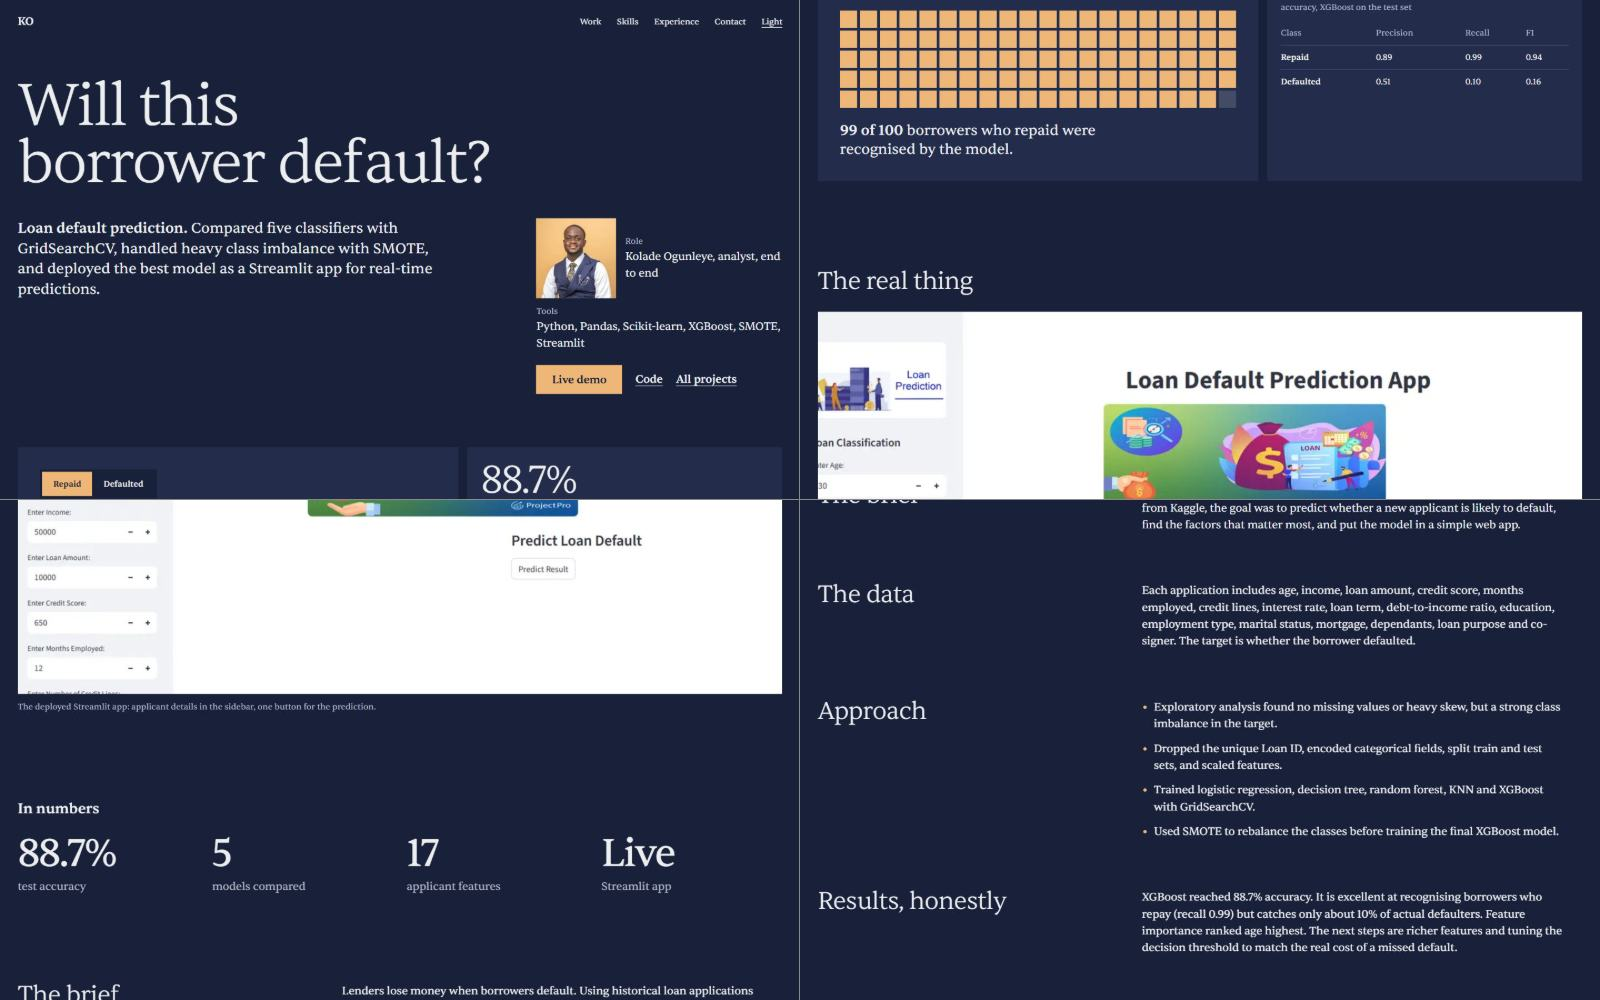
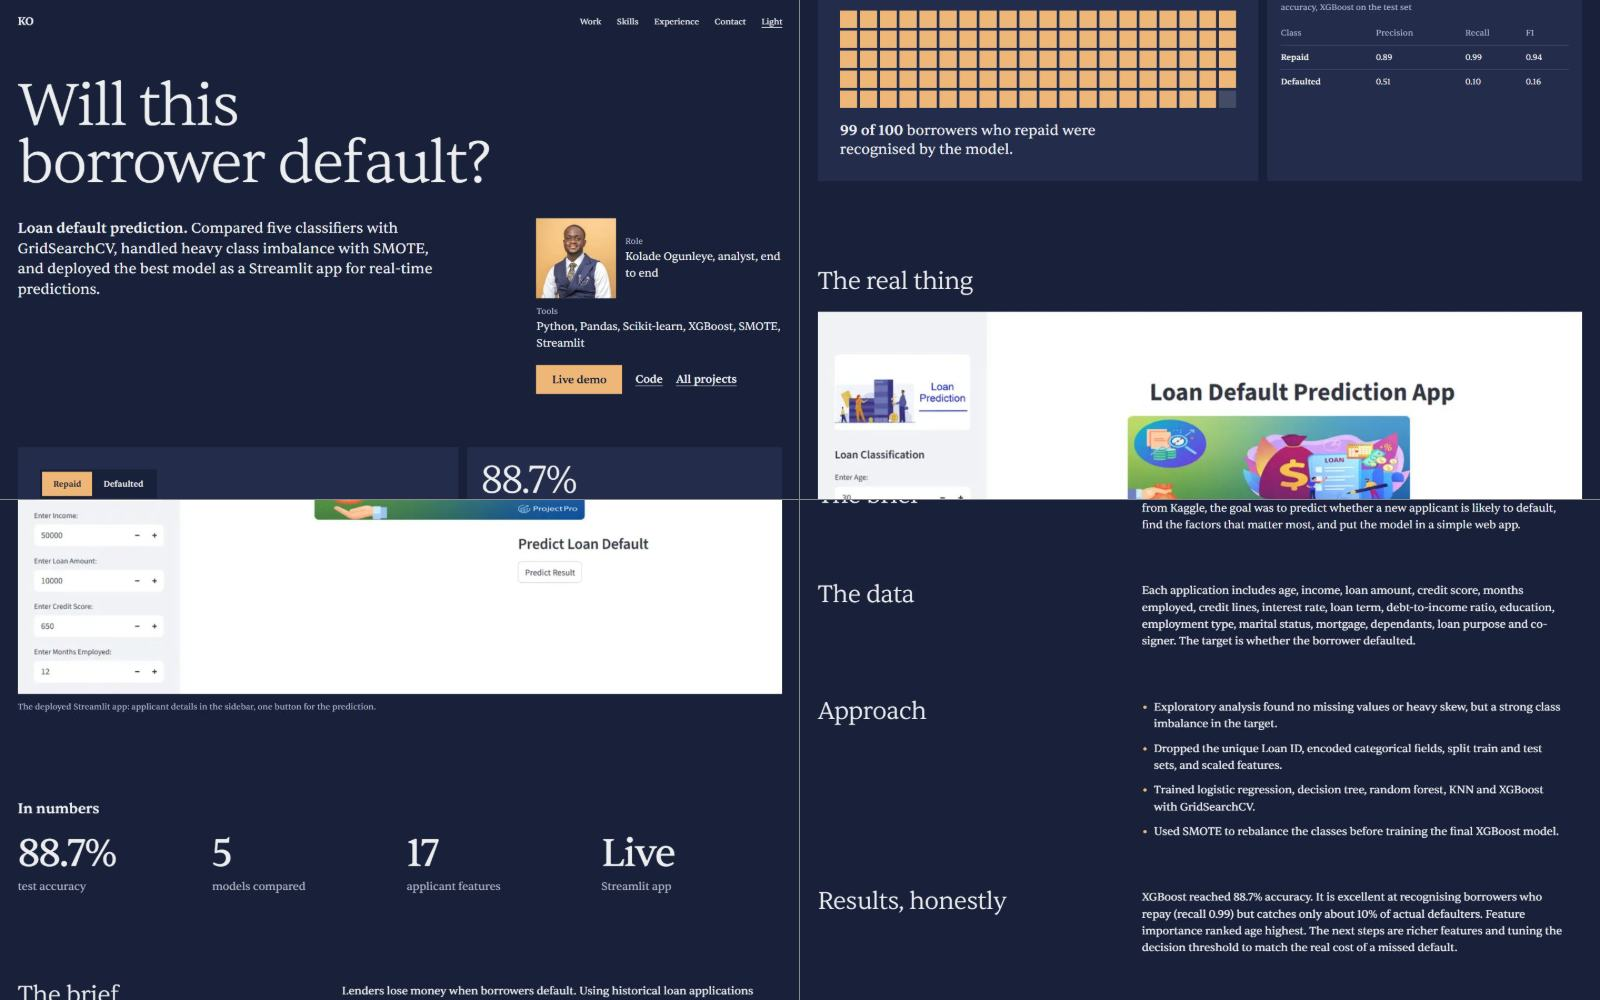
new chsnges

diff --git a/kolade-portfolio/app/globals.css b/kolade-portfolio/app/globals.css
@@ -297,7 +297,7 @@ p { margin: 0; }
 .case-cover h2 { font-size: clamp(1.75rem, 1rem + 2vw, 2.75rem); margin-bottom: 32px; }
 .case-cover figure { margin: 0; }
 .case-cover-frame { overflow: clip; aspect-ratio: 16 / 8; }
-.case-cover-frame img { width: 100%; height: 100%; object-fit: cover; object-position: 0 0; }
+.case-cover-frame img { width: 100%; height: 100%; object-fit: cover; object-position: 0 0; transform-origin: 0 0; }
 .case-cover figcaption { margin-top: 12px; color: var(--muted); font-size: var(--s-small); }
 .case-links { display: flex; align-items: center; gap: 24px; flex-wrap: wrap; }
 .case-visual { padding: 96px var(--m) 0; }
@@ -334,7 +334,7 @@ p { margin: 0; }
   text-decoration: none;
 }
 .next-shot { overflow: clip; aspect-ratio: 16 / 10; }
-.next-shot img { width: 100%; height: 100%; object-fit: cover; object-position: 0 0; transition: transform .6s var(--ease-out); }
+.next-shot img { width: 100%; height: 100%; object-fit: cover; object-position: 0 0; transform-origin: 0 0; transition: transform .6s var(--ease-out); }
 .next-project:hover .next-shot img { transform: scale(1.03); }
 .next-title { font-size: var(--s-head); line-height: 1.02; letter-spacing: -0.025em; font-weight: 300; transition: transform .4s var(--ease-out); }
 .next-project:hover .next-title { transform: translateX(16px); }

diff --git a/kolade-portfolio/app/page.tsx b/kolade-portfolio/app/page.tsx
@@ -145,9 +145,9 @@ export default function Home() {
         <div className="about-tiles">
           <Reveal className="place-tile">
             <div className="place-frame">
-              <Image src="/place/pitakwa.jpg" alt="Port Harcourt seen from above: low roofs among green trees, a transmission tower on the horizon" width={1024} height={565} sizes="(max-width: 900px) 100vw, 66vw" />
+              <Image src="/place/bank-road.jpg" alt="Bank Road, Port Harcourt: the Rivers State Secretariat blocks in blue, red and ochre behind a palm, cars on the road under a bright sky" width={1920} height={985} sizes="(max-width: 900px) 100vw, 66vw" />
             </div>
-            <p>Port Harcourt, Rivers State, where I work from.</p>
+            <p>Bank Road, Port Harcourt, the city I work from.</p>
           </Reveal>
           <Reveal className="open-tile accent" delay={120}>
             <p className="open-text">Open to data analyst and data scientist roles, plus freelance dashboard and analysis work.</p>

diff --git a/kolade-portfolio/app/layout.tsx b/kolade-portfolio/app/layout.tsx
@@ -60,8 +60,8 @@ export default function RootLayout({ children }: { children: React.ReactNode }) 
               <div>
                 <h2>Picture credit</h2>
                 <p>
-                  Port Harcourt view: <a href="https://commons.wikimedia.org/wiki/File:Pitakwa.jpg" target="_blank" rel="noreferrer">“Pitakwa” by Kalabarian</a>,{" "}
-                  <a href="https://creativecommons.org/licenses/by-sa/3.0" target="_blank" rel="noreferrer">CC BY-SA 3.0</a>, via Wikimedia Commons.
+                  Bank Road photograph: <a href="https://commons.wikimedia.org/wiki/File:Bank_Road,_Port_Harcourt,.jpg" target="_blank" rel="noreferrer">“Bank Road, Port Harcourt” by SteadyWins</a>,{" "}
+                  <a href="https://creativecommons.org/licenses/by-sa/4.0" target="_blank" rel="noreferrer">CC BY-SA 4.0</a>, via Wikimedia Commons.
                 </p>
               </div>
             </div>
